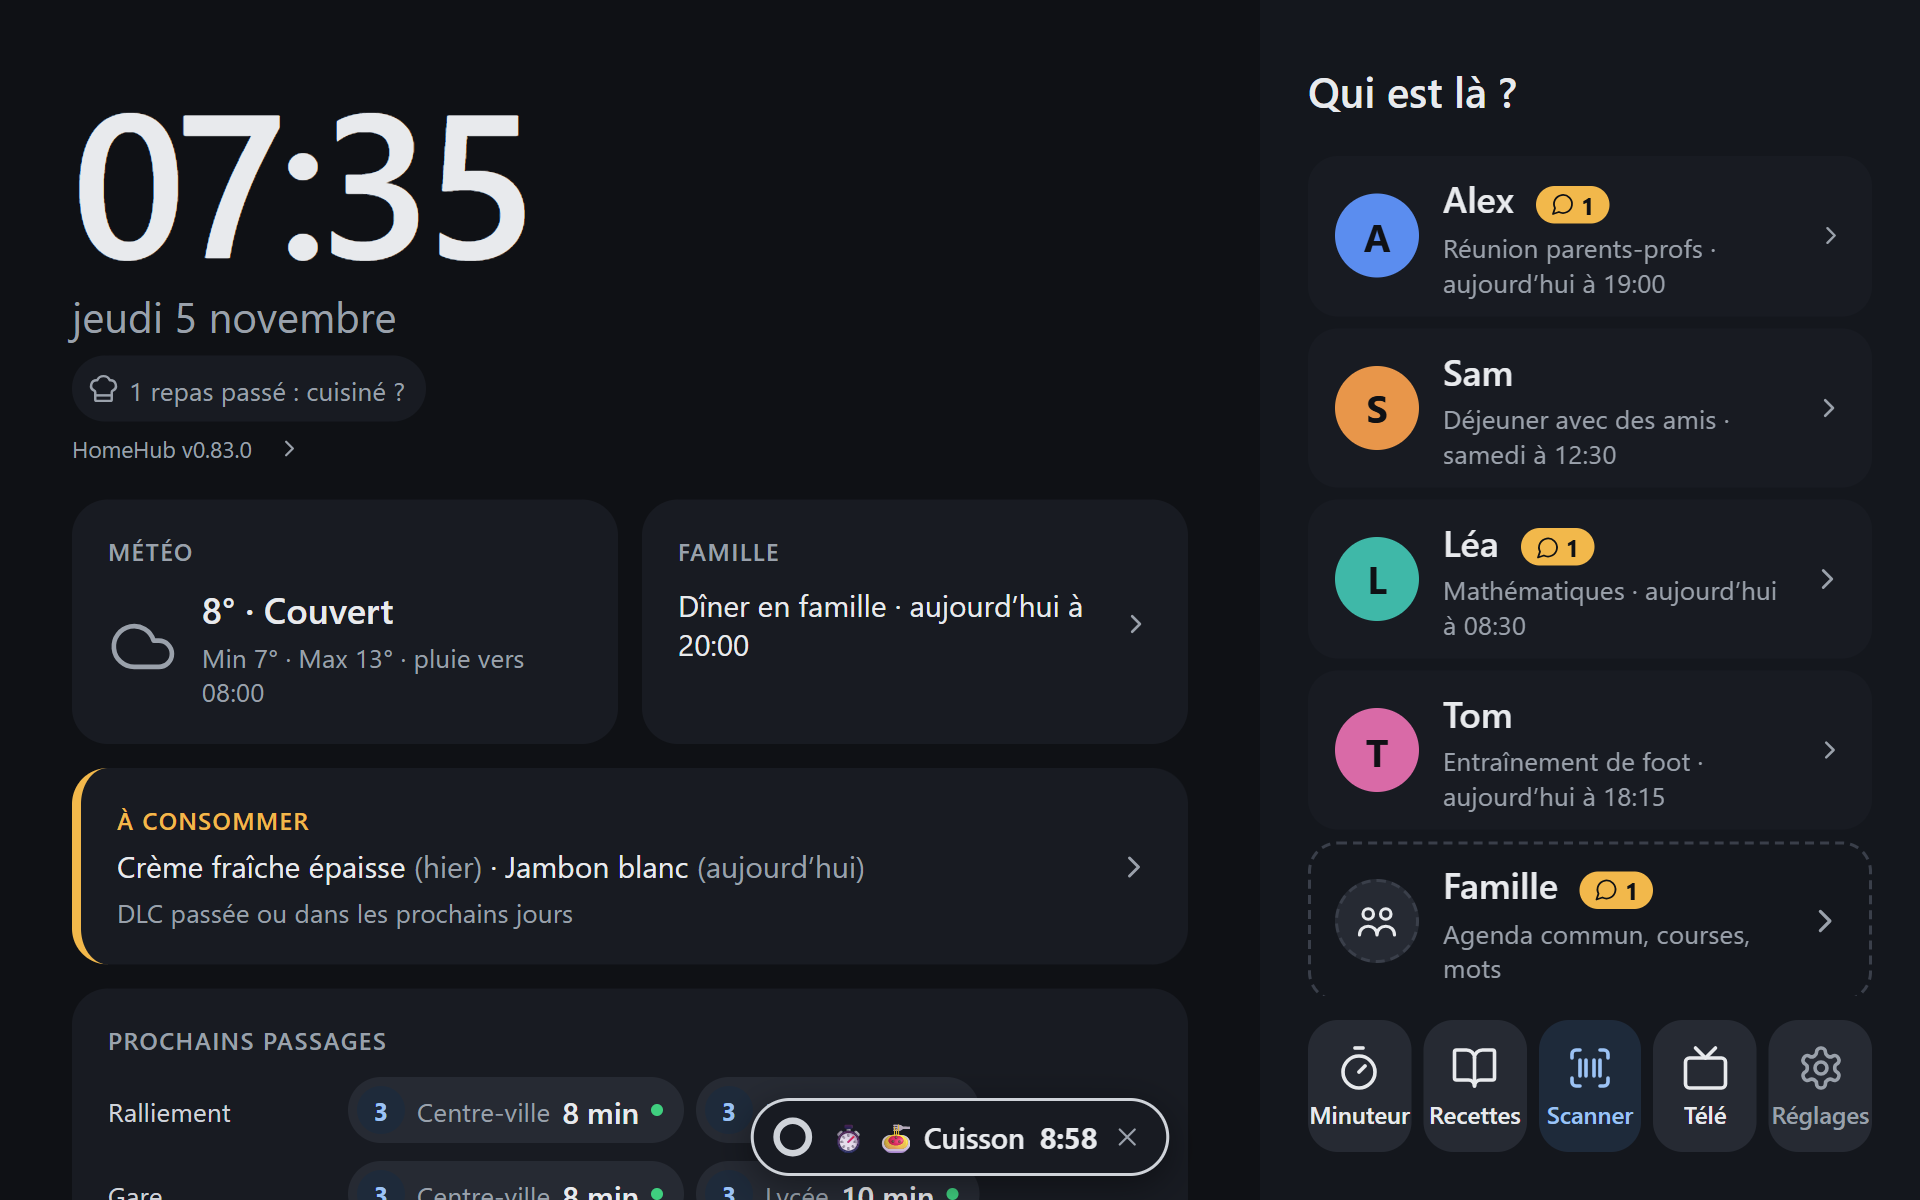
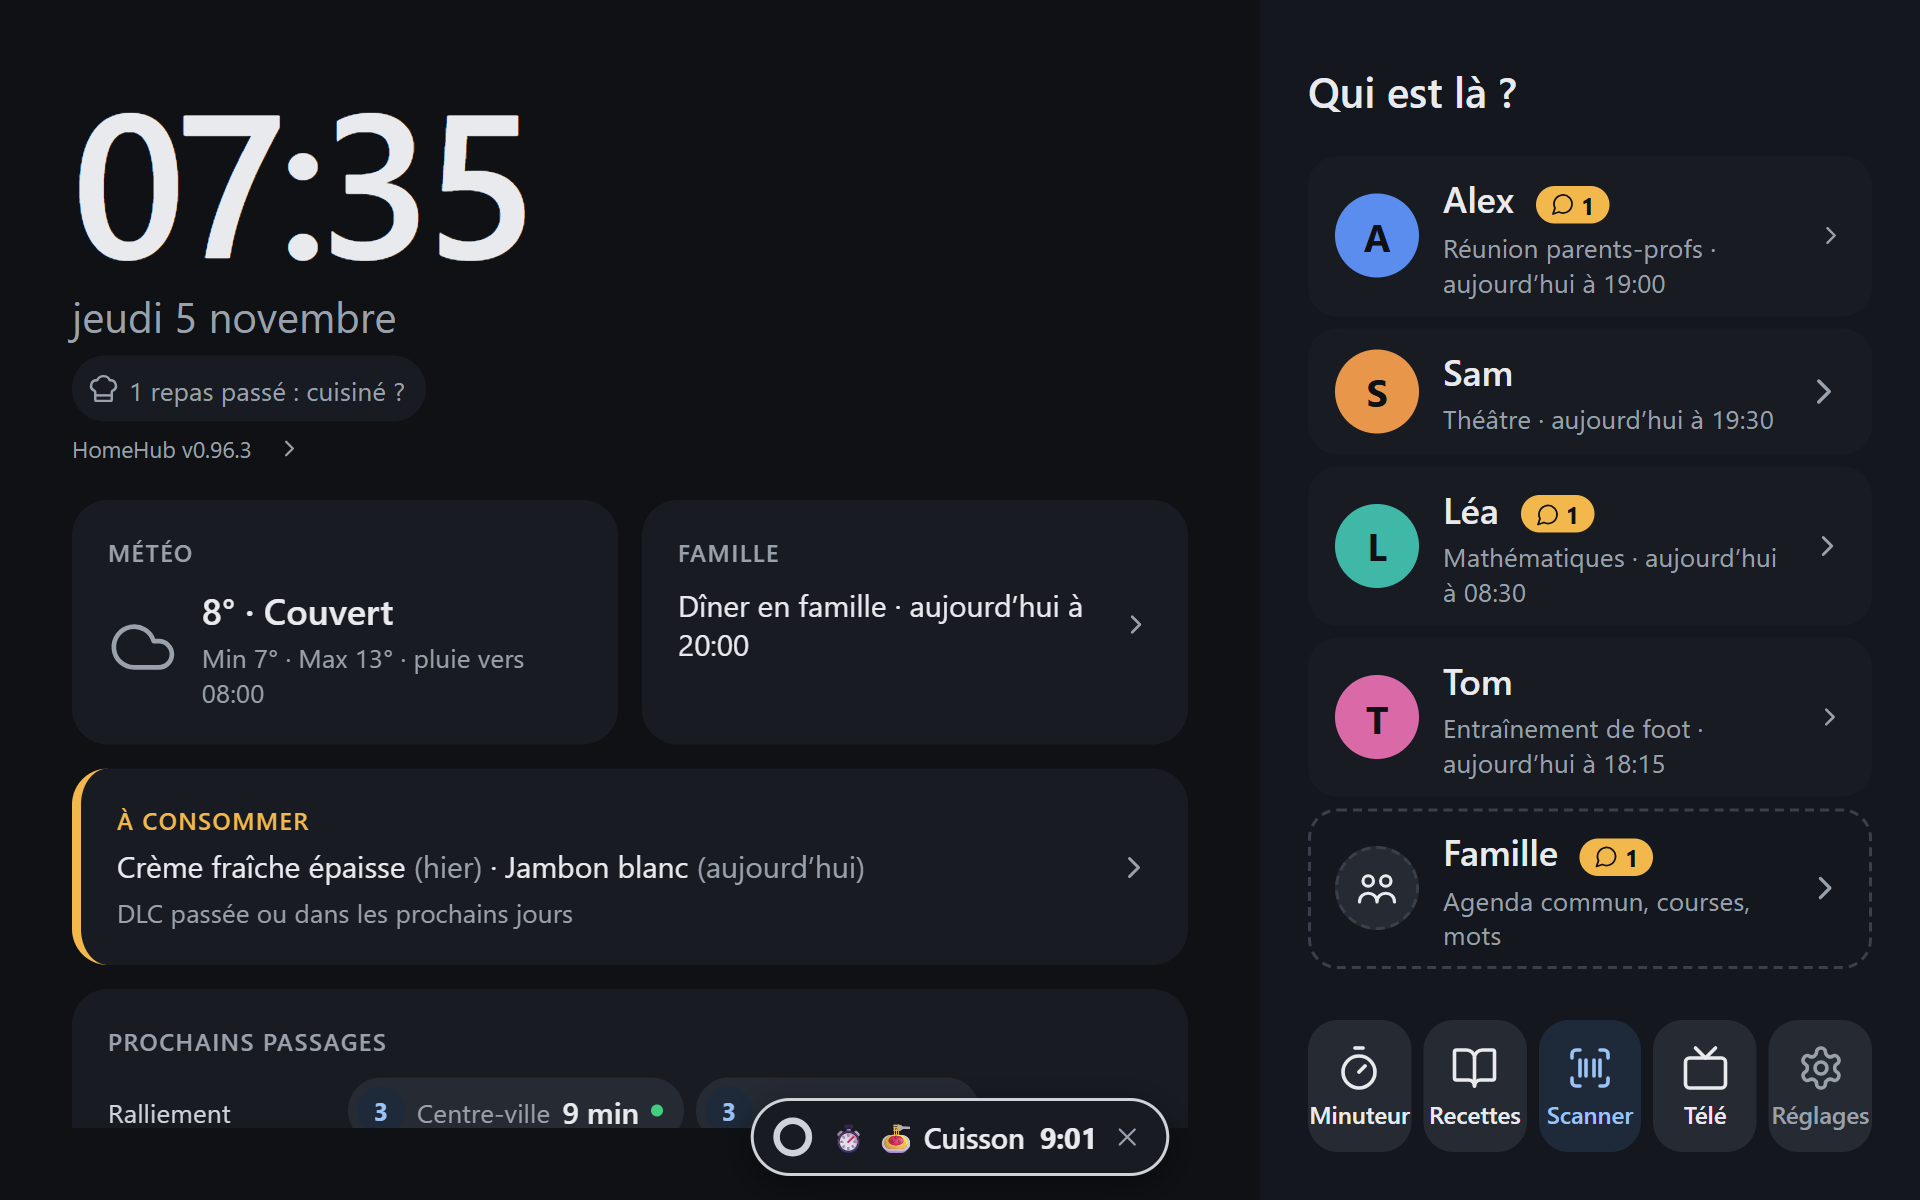
0.96.3 : l'horloge de l'accueil reste fixe, seules les informations en dessous défilent
- Accueil de la tablette : l'horloge (date, rappel des repas, version) ne défile plus avec le reste ; seules les
  informations en dessous (accueil de la personne reconnue, météo, famille, « À consommer », prochains passages)
  défilent au doigt quand elles dépassent la hauteur de l'écran. « Qui est là ? » et la barre d'actions restent en
  place ; quand tout tient, la mise en page ne change pas (cartes en bas, accueil de la personne centré).
- README, docs/ecrans.md (capture de l'accueil refaite) et TODO.md à jour.

diff --git a/web/src/screens/Home.svelte b/web/src/screens/Home.svelte
@@ -61,82 +61,85 @@
       </DetailLink>
     </div>
 
-    {#if actor.current && me}
-      {@const who = actor.current}
-      {@const headline = profileHeadline({ ...me, pendingTasks: 0 }, clock.now)}
-      <button type="button" class="welcome" style:--accent={who.color} onclick={() => navigate(dashboardPath(who.id))}>
-        <span class="welcome-title">{greeting(clock.now)} {who.name} !</span>
-        {#if me.unreadNotes}
-          <span class="line unread"><Icon name="message" size={24} /> {pluralize(me.unreadNotes, 'mot')} pour toi</span>
-        {/if}
-        {#if me.routine}
-          <span class="line">
-            <Icon name="check" size={24} />
-            {routineName(me.routine.period)} : {me.routine.done === me.routine.total ? 'finie, bravo !' : `${me.routine.done}/${me.routine.total}`}
-          </span>
-        {/if}
-        {#if homeworkReminder(me.homework, clock.now)}
-          <span class="line"><Icon name="pencil" size={24} /> {homeworkReminder(me.homework, clock.now)}</span>
-        {/if}
-        {#if me.nextTasks.length}
-          <span class="line">
-            <Icon name="list" size={24} />
-            À faire : {me.nextTasks.join(', ')}{me.pendingTasks > me.nextTasks.length ? '…' : ''}
-          </span>
-        {/if}
-        {#if headline !== 'Rien de prévu'}
-          <span class="line"><Icon name="calendar" size={24} /> {headline}</span>
-        {/if}
-      </button>
-    {/if}
+    <!-- Seules les informations sous l'horloge défilent quand elles dépassent la hauteur de l'écran. -->
+    <div class="infos">
+      {#if actor.current && me}
+        {@const who = actor.current}
+        {@const headline = profileHeadline({ ...me, pendingTasks: 0 }, clock.now)}
+        <button type="button" class="welcome" style:--accent={who.color} onclick={() => navigate(dashboardPath(who.id))}>
+          <span class="welcome-title">{greeting(clock.now)} {who.name} !</span>
+          {#if me.unreadNotes}
+            <span class="line unread"><Icon name="message" size={24} /> {pluralize(me.unreadNotes, 'mot')} pour toi</span>
+          {/if}
+          {#if me.routine}
+            <span class="line">
+              <Icon name="check" size={24} />
+              {routineName(me.routine.period)} : {me.routine.done === me.routine.total ? 'finie, bravo !' : `${me.routine.done}/${me.routine.total}`}
+            </span>
+          {/if}
+          {#if homeworkReminder(me.homework, clock.now)}
+            <span class="line"><Icon name="pencil" size={24} /> {homeworkReminder(me.homework, clock.now)}</span>
+          {/if}
+          {#if me.nextTasks.length}
+            <span class="line">
+              <Icon name="list" size={24} />
+              À faire : {me.nextTasks.join(', ')}{me.pendingTasks > me.nextTasks.length ? '…' : ''}
+            </span>
+          {/if}
+          {#if headline !== 'Rien de prévu'}
+            <span class="line"><Icon name="calendar" size={24} /> {headline}</span>
+          {/if}
+        </button>
+      {/if}
 
-    {#if home.data}
-      {@const { weather, familyHighlight } = home.data}
-      <div class="bottom">
-        {#if weather || familyHighlight}
-          <div class="pair">
-            {#if weather}
-              <DetailLink to="weather" label="Météo détaillée" variant="block">
-                <span class="tile">
-                  <span class="card-label">Météo</span>
-                  <span class="tile-row">
-                    <Icon
-                      name={weatherIcon(weather.weatherCode, weather.isDay)}
-                      size={48}
-                      color={weatherIconColor(weather.weatherCode, weather.isDay)}
-                      strokeWidth={1.6}
-                    />
-                    <span class="tile-text">
-                      <span class="temperature">{formatTemperature(weather.temperatureC)} · {weatherLabel(weather.weatherCode)}</span>
-                      <span class="muted">{weatherOutlook(weather, clock.now)}</span>
+      {#if home.data}
+        {@const { weather, familyHighlight } = home.data}
+        <div class="bottom">
+          {#if weather || familyHighlight}
+            <div class="pair">
+              {#if weather}
+                <DetailLink to="weather" label="Météo détaillée" variant="block">
+                  <span class="tile">
+                    <span class="card-label">Météo</span>
+                    <span class="tile-row">
+                      <Icon
+                        name={weatherIcon(weather.weatherCode, weather.isDay)}
+                        size={48}
+                        color={weatherIconColor(weather.weatherCode, weather.isDay)}
+                        strokeWidth={1.6}
+                      />
+                      <span class="tile-text">
+                        <span class="temperature">{formatTemperature(weather.temperatureC)} · {weatherLabel(weather.weatherCode)}</span>
+                        <span class="muted">{weatherOutlook(weather, clock.now)}</span>
+                      </span>
                     </span>
                   </span>
-                </span>
-              </DetailLink>
-            {/if}
-            {#if familyHighlight}
-              <DetailLink to="week" label="Semaine de la famille" variant="block">
-                <span class="tile">
-                  <span class="card-label">{config.family.name}</span>
-                  <span class="tile-row">
-                    <span class="highlight-text">{eventLine(familyHighlight, clock.now)}</span>
-                    <Icon name="chevron" size={24} color="var(--fg-muted)" strokeWidth={2} />
+                </DetailLink>
+              {/if}
+              {#if familyHighlight}
+                <DetailLink to="week" label="Semaine de la famille" variant="block">
+                  <span class="tile">
+                    <span class="card-label">{config.family.name}</span>
+                    <span class="tile-row">
+                      <span class="highlight-text">{eventLine(familyHighlight, clock.now)}</span>
+                      <Icon name="chevron" size={24} color="var(--fg-muted)" strokeWidth={2} />
+                    </span>
                   </span>
-                </span>
-              </DetailLink>
-            {/if}
-          </div>
-        {/if}
-        <!-- DLC passées ou urgentes du stock (rien de personnel) ; absente sinon. -->
-        <ExpiringCard />
-        {#if transit.data && transit.data.stops.length > 0}
-          <div class="tile">
-            <span class="card-label">Prochains passages</span>
-            <TransitBoard transit={transit.data} now={clock.now} />
-          </div>
-        {/if}
-      </div>
-    {/if}
+                </DetailLink>
+              {/if}
+            </div>
+          {/if}
+          <!-- DLC passées ou urgentes du stock (rien de personnel) ; absente sinon. -->
+          <ExpiringCard />
+          {#if transit.data && transit.data.stops.length > 0}
+            <div class="tile">
+              <span class="card-label">Prochains passages</span>
+              <TransitBoard transit={transit.data} now={clock.now} />
+            </div>
+          {/if}
+        </div>
+      {/if}
+    </div>
   </section>
 
   <section class="profiles">
@@ -224,17 +227,13 @@
   }
 
 
-  /* La page ne défile pas (body en overflow: hidden) : la colonne défile d'elle-même au doigt quand l'accueil de la
-     personne reconnue, les cartes et les passages dépassent la hauteur de l'écran. */
+  /* Colonne de gauche : l'horloge reste fixe en haut, les informations en dessous occupent le reste de la hauteur. */
   .ambient {
     flex: 1 1 0;
     min-width: 0;
     min-height: 0;
-    overflow-y: auto;
-    overscroll-behavior: contain;
     display: flex;
     flex-direction: column;
-    justify-content: space-between;
     gap: var(--space-3);
     padding: var(--space-6);
     box-sizing: border-box;
@@ -242,6 +241,7 @@
   }
 
   .clock {
+    flex: none;
     display: flex;
     flex-direction: column;
     gap: var(--space-1);
@@ -263,6 +263,28 @@
   .version {
     font-size: 0.95rem;
     color: var(--fg-muted);
+  }
+
+  /* La page ne défile pas (body en overflow: hidden) : seules les informations défilent au doigt quand l'accueil de
+     la personne reconnue, les cartes et les passages dépassent la hauteur de l'écran. Quand tout tient, les marges
+     automatiques gardent la mise en page d'avant : cartes en bas, accueil de la personne centré entre l'horloge et
+     les cartes ; elles tombent à zéro dès que ça déborde, sans rien couper en haut. */
+  .infos {
+    flex: 1 1 0;
+    min-height: 0;
+    overflow-y: auto;
+    overscroll-behavior: contain;
+    display: flex;
+    flex-direction: column;
+    gap: var(--space-3);
+  }
+
+  .infos > .welcome {
+    margin-block: auto;
+  }
+
+  .bottom:first-child {
+    margin-top: auto;
   }
 
   .bottom {

diff --git a/docs/ecrans.md b/docs/ecrans.md
@@ -1,6 +1,6 @@
 # Écrans
 
-Captures de HomeHub 0.96.2, avec des **données fictives** : famille de test (Alex, Sam, Léa, Tom), agenda d'exemple,
+Captures de HomeHub 0.96.3, avec des **données fictives** : famille de test (Alex, Sam, Léa, Tom), agenda d'exemple,
 faux ÉcoleDirecte, faux temps réel Irigo, produits et marques inventés à la place d'Open Food Facts, recettes inventées sur un faux site de cuisine, fiches produit inventées d'une fausse enseigne de drive, calendrier
 scolaire d'exemple (zone B), horloge arrêtée le jeudi 5 novembre 2026 à 07:35 (le 11 novembre et en décembre pour les fériés et les vacances). La météo est réelle,
 celle du jour de la capture.
@@ -23,7 +23,7 @@ avec le prochain rendez-vous et les mots non lus de chacun. Carte **« À consom
 passé d'hier et le jambon à finir aujourd'hui (DLC passées ou urgentes seulement) ; touchée, elle ouvre le stock sur
 « À consommer ». En bas, un minuteur en cours, et la barre d'actions : Minuteur, Recettes, Scanner, **Télé** (dès
 qu'une télé est appairée) et Réglages. Quand l'accueil de la personne reconnue, les cartes et les passages dépassent
-la hauteur de l'écran, la colonne de gauche défile au doigt ; « Qui est là ? » et la barre d'actions restent en place.
+la hauteur de l'écran, ils défilent au doigt sous l'horloge, qui reste fixe en haut ; « Qui est là ? » et la barre d'actions restent en place.
 
 ![Accueil](images/tablette-accueil.png)
 

diff --git a/README.md b/README.md
@@ -9,7 +9,7 @@ Captures, diagrammes d'architecture et design : [docs/](docs/README.md).
 
 - **Accueil** : grande horloge, météo, prochain événement de la famille, et « Qui est là ? » pour choisir son profil ;
   carte **« À consommer »** quand une DLC du stock est passée ou urgente (voir Stock). Quand les cartes dépassent
-  la hauteur de l'écran, la colonne de gauche défile au doigt (0.96.1).
+  la hauteur de l'écran, elles défilent au doigt sous l'horloge, qui reste fixe en haut (0.96.1, 0.96.3).
 - **Dashboard par profil** (`/p/<id>`) : prochaine activité, tâches à cocher, semaine, mot de la famille (et, pour un
   parent, la carte « À consommer »).
   Un rail à gauche ramène à l'accueil ou passe directement à un autre profil.

diff --git a/TODO.md b/TODO.md
@@ -450,6 +450,8 @@ personne depuis son propre téléphone.
       touchés signalés ; calcul des empreintes réglable (`faces.backend` : `webgl`, `webgl-safe`, `cpu`).
 - [x] Accueil (0.96.1) : la colonne de gauche (horloge, cartes, passages) défile au doigt quand elle dépasse la
       hauteur de l'écran, au lieu d'être coupée.
+- [x] Accueil (0.96.3) : l'horloge reste fixe en haut ; seules les informations en dessous (accueil de la personne
+      reconnue, cartes, passages) défilent.
 
 ## Transports (après le design)
 
